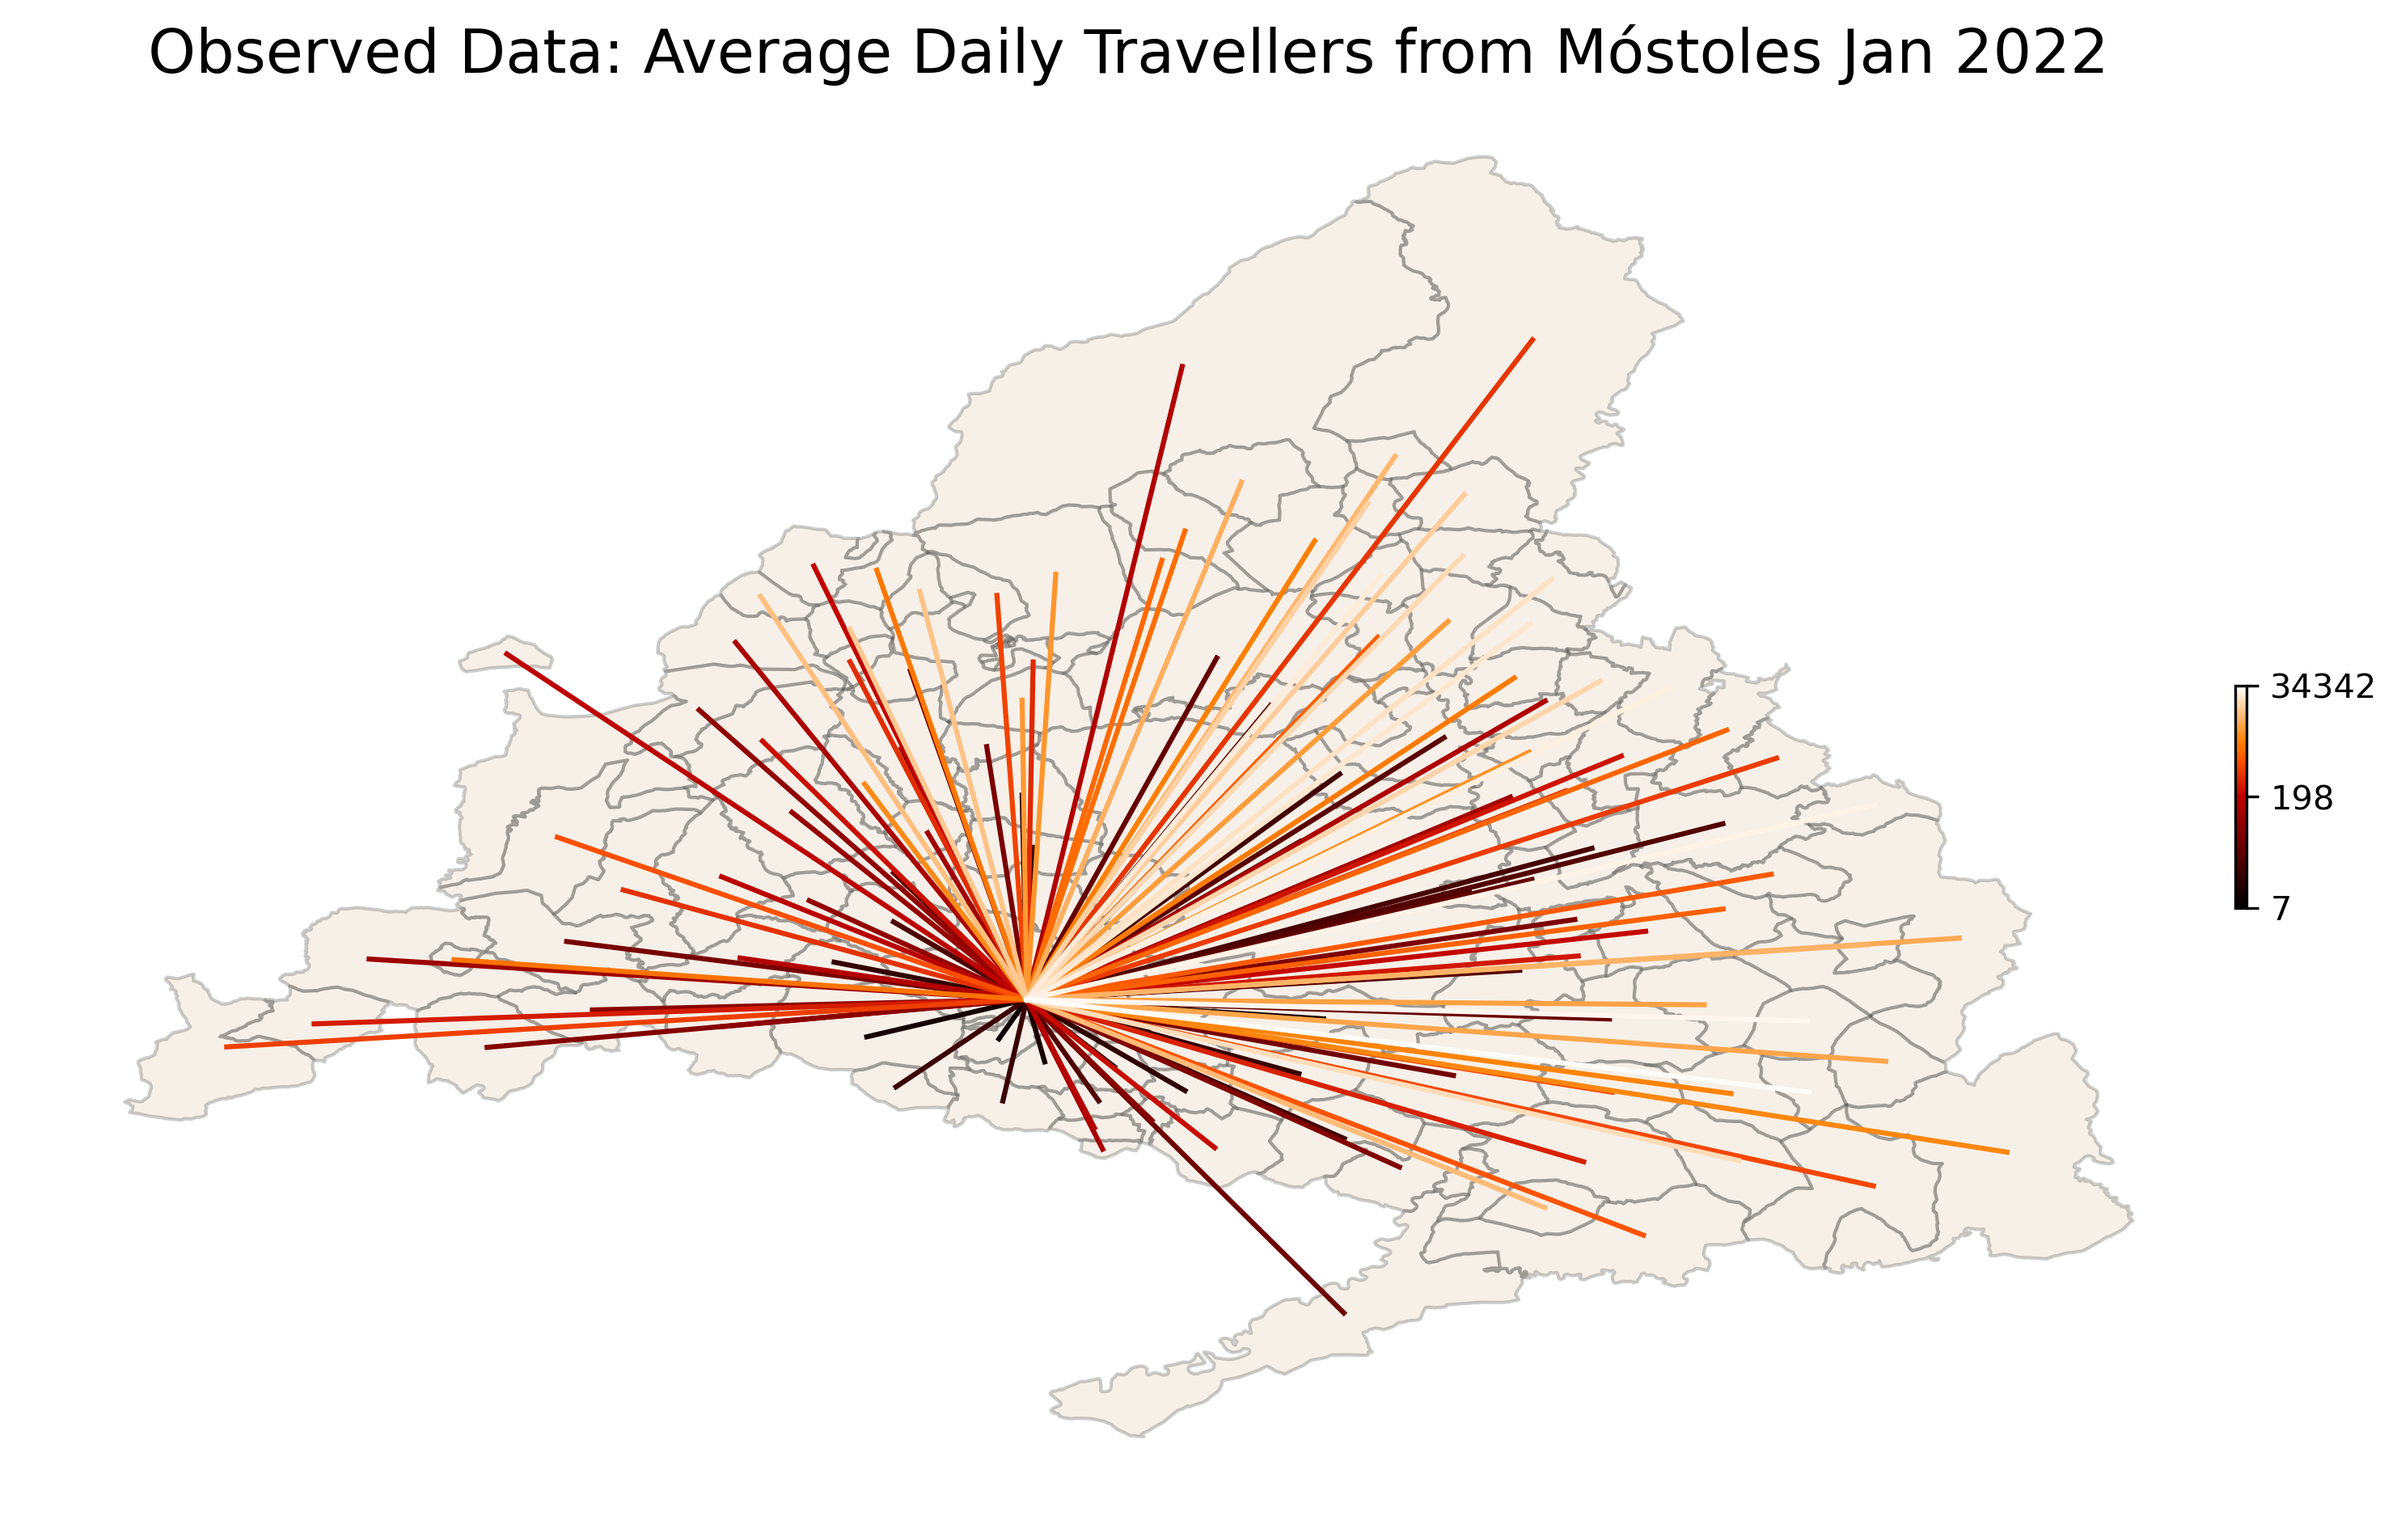
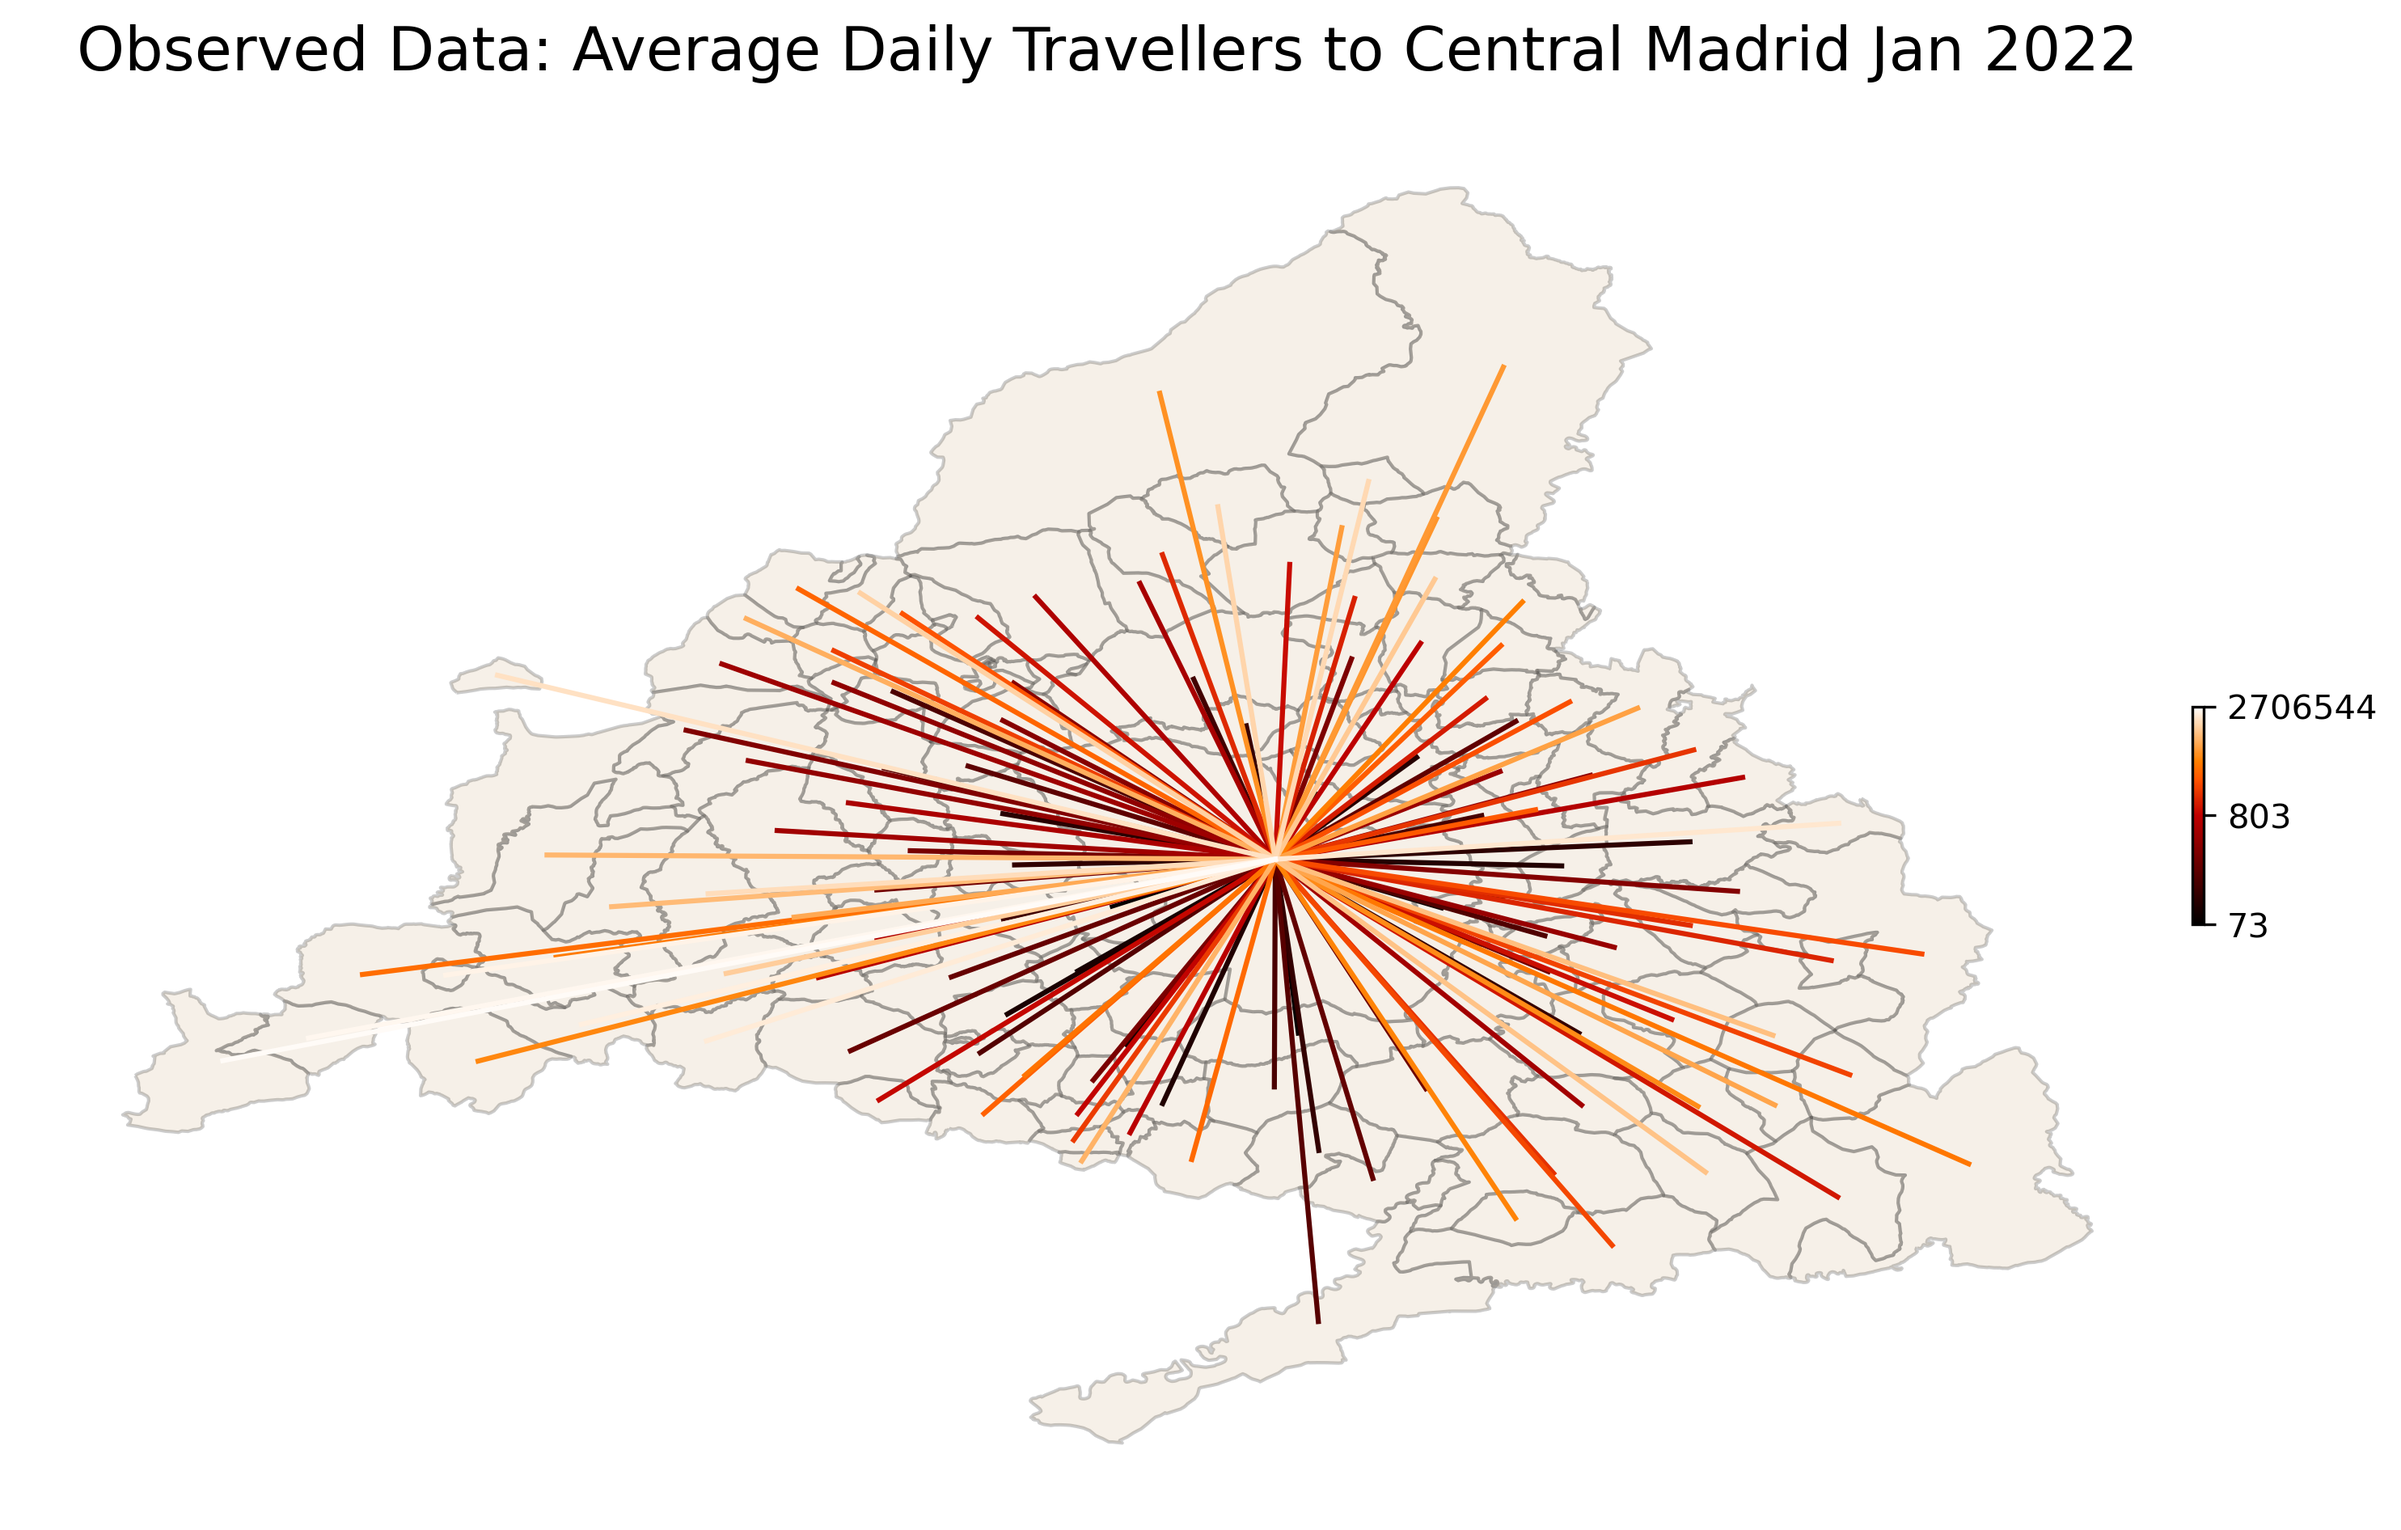
add bayesian visitation model

diff --git a/models_bayesian.py b/models_bayesian.py
@@ -1,0 +1,215 @@
+# -*- coding: utf-8 -*-
+import os
+import numpy as np
+import matplotlib.pyplot as plt
+import pandas as pd
+import geopandas as gpd
+import matplotlib as mpl
+from scipy.spatial import distance_matrix
+from tqdm import tqdm
+import pymc as pm
+import pytensor.tensor as at
+import arviz as az
+from scipy.stats import binned_statistic
+
+os.chdir(os.getcwd())
+
+#load geolocation data and subset by Madrid
+gdf = gpd.read_file("./data/zonificacion_municipios.shp")
+gdf = gdf.to_crs('+proj=cea')
+
+gdf.reset_index(inplace=True, drop=True)
+gdf['coords'] = gdf['geometry'].apply(lambda x: x.representative_point().coords[:])
+gdf['coords'] = [coords[0] for coords in gdf['coords']]
+gdf['centroid'] = gdf["geometry"].centroid.to_crs(gdf.crs)
+
+names = pd.read_csv("./data/nombres_municipios.csv", sep="|")
+madri = names[names.name=="Madrid"].ID.values[0]
+
+mad = gdf[gdf.ID.str.startswith("28")] #Madrid municipios start with 28
+
+data = pd.read_csv("data_jan_ave.csv")
+data = data[data.destino==madri] #data.groupby(["origen", "destino"], as_index=False).mean()
+data['ID'] = data.origen
+
+pob = pd.read_csv("./data/poblacion.csv", sep="|")
+pob['ID'] = pob.municipio
+pob = pob[pob.municipio.isin(data.ID.unique())]
+pob = pob.drop_duplicates('municipio') 
+
+#################### Observed Data ##############################
+### Plot Survey data observed
+#Tdf_obs = data.groupby(['origen', 'destino']).mean()
+Tdf_obs = pd.pivot_table(data, index='origen', columns='destino', values='viajes')/31
+madri_idx = Tdf_obs.columns.get_loc(madri)
+Ndf = pd.DataFrame({"ID":Tdf_obs[madri].index, madri:Tdf_obs[madri].values})
+Ndf = Ndf.replace(np.nan,0)
+madg = pd.merge(mad,Ndf)
+madg = madg.sort_values(by=madri, ascending=False)
+madg.reset_index(inplace=True, drop=True)
+
+max_val = int(max(madg[madri]))
+mid_val = int(np.median(madg[madri]))
+min_val = int(min(madg[madri]))
+
+colors = np.array([mpl.cm.get_cmap('gist_heat')(x/len(madg)) for x in range(len(madg))])
+sm = plt.cm.ScalarMappable(cmap=mpl.cm.get_cmap('gist_heat'))
+
+ch_map = mad.plot(figsize=(10,20), color="tan", alpha=0.2, edgecolor="k")
+for c in range(len(madg)):
+    #ch_map.set_facecolor("grey")
+    muni_dest = madg.ID[c]
+    orig = madri
+    dest_coord = mad[mad.ID==muni_dest].coords.values[0]
+    orig_coord = mad[mad.ID==orig].coords.values[0]
+    x = (dest_coord[0], orig_coord[0])
+    y = (dest_coord[1], orig_coord[1])
+    ch_map.plot(x,y, color=colors[c])  
+cbar = plt.colorbar(sm,fraction=0.005, pad=0.001)
+cbar.set_ticklabels([min_val,mid_val,max_val])
+plt.title("Observed Data: Average Daily Travellers to Central Madrid Jan 2022", fontsize=18)
+plt.axis('off')
+plt.tight_layout()
+plt.savefig("plot_madrid_municipio_observed.png", dpi=300, bbox_inches='tight', pad_inches=0.1)
+plt.show()
+plt.close()
+
+
+###############################################################################
+####################### Visitation Law Model ##################################
+
+#create distance matrix for radiuses R
+xy = np.array([np.array(mad.centroid.values[i].xy) for i in tqdm(range(len(mad)))]).T[0]
+D = distance_matrix(xy.T, xy.T) + 0.000000001 #distance matrix in meters
+R = D/1e3  #radiuses in km
+
+fmin = 1/31 #data.viajes/data.visitors/31 #minimum frequency
+fmax = 1 #data.viajes/data.visitors
+Nj = pob[pob.municipio==madri].poblacion.values #population destination
+Njv = data.visitors.values #visitors destination from origins
+Ai = mad.geometry.area.values/1e6 #area origin
+Aj = Ai[madri_idx] #area destination
+rj = Aj/(2*np.pi)#radius destination
+rhoj = Nj/Aj
+rij = R.T[madri_idx] #radiuses from origins to central Madrid
+rij[madri_idx] = rj 
+muj = rhoj*(rj*1)**2
+
+Vij = (muj*Ai)/(np.log(fmax/fmin)*rij**2) * 31 #compute monthly average number of trips
+
+Qij = Ai*(31**-1)*muj/(rj**2) #compute number of unique visitors
+
+Vij_vis = np.sort(Vij)[:118]
+Qij_vis = np.sort(Qij)
+
+Vij_obs = np.sort(data.viajes.values)[:118]
+Qij_obs = np.sort(data.visitors.values)
+
+SSI_v_vis = 2*np.sum(np.minimum(Vij_obs, Vij_vis))/(np.sum(Vij_obs) + np.sum(Vij_vis))
+SSI_q_vis = 2*np.sum(np.minimum(Qij_obs, Qij_vis))/(np.sum(Qij_obs) + np.sum(Qij_vis))
+
+
+fig, ax = plt.subplots(nrows=2, ncols=2, figsize=(16,8))
+
+ax[0,0].plot(Vij_obs, Vij_obs, color='k', linestyle=":", label="Observed")
+ax[0,0].scatter(Vij_obs, Vij_vis, marker="o", facecolor="w", color="g", label="Daily Trips: SSI="+str(round(SSI_v_vis, 2)))
+ax[0,0].legend()
+ax[0,0].set_title("Average Daily Trips")
+ax[0,0].set_ylabel("Estmiate")
+ax[0,0].set_xlabel("Observed")
+
+ax[0,1].plot(Vij_obs[:85], Vij_obs[:85], color='k', linestyle=":", label="Observed")
+SSI_v_vis = 2*np.sum(np.minimum(Vij_obs[:85], Vij_vis[:85]))/(np.sum(Vij_obs[:85]) + np.sum(Vij_vis[:85]))
+ax[0,1].scatter(Vij_obs[:85], Vij_vis[:85], marker="o", facecolor="w", color="g", label="Daily Trips: SSI="+str(round(SSI_v_vis, 2)))
+ax[0,1].legend()
+ax[0,1].set_title("Average Daily Trips < 50000")
+ax[0,1].set_ylabel("Estmiate")
+ax[0,1].set_xlabel("Observed")
+
+ax[1,0].plot(Qij_obs, Qij_obs, color='k', linestyle=":", label="Observed")
+ax[1,0].scatter(Qij_obs, Qij_vis, marker="o", facecolor="w", color="g", label="Daily Visitors: SSI="+str(round(SSI_q_vis, 2)))
+ax[1,0].legend()
+ax[1,0].set_title("Average Daily Visitors")
+ax[1,0].set_ylabel("Estmiate")
+ax[1,0].set_xlabel("Observed")
+
+ax[1,1].plot(Qij_obs[:87], Qij_obs[:87], color='k', linestyle=":", label="Observed")
+SSI_q_vis = 2*np.sum(np.minimum(Qij_obs[:87], Qij_vis[:87]))/(np.sum(Qij_obs[:87]) + np.sum(Qij_vis[:87]))
+ax[1,1].scatter(Qij_obs[:87], Qij_vis[:87], marker="o", facecolor="w", color="g", label="Daily Visitors: SSI="+str(round(SSI_q_vis, 2)))
+ax[1,1].legend()
+ax[1,1].set_title("Average Daily Visitors < 15000")
+ax[1,1].set_ylabel("Estmiate")
+ax[1,1].set_xlabel("Observed")
+
+plt.suptitle("Visitation Law Approximation: Trips and Travellers to Central Madrid", fontsize=18)
+plt.tight_layout()
+
+plt.savefig("visitation_law_estimates.png", dpi=300)
+plt.show()
+plt.close()
+
+#################################################
+Vij_obs = data.viajes.values
+Qij_obs = data.visitors.values
+T = 31 #length of period under study
+with pm.Model() as mod:
+    mu = pm.Uniform("mu", 1e4, 10e4, shape=119)
+    fmin = pm.Uniform("fmin", 0.1, 1, shape=119)
+    fmax = pm.Uniform("fmax", 1, 100, shape=119)
+    v = pm.Deterministic("v", (mu*Ai)/(np.log(fmax/fmin)*rij**2))
+    q = pm.Deterministic("q", Ai*(T**-1)*mu/(rj**2))
+    alpha1 = pm.HalfNormal("alpha1", 100)
+    alpha2 = pm.HalfNormal("alpha2", 10)
+    y = pm.NegativeBinomial("y", mu=v, alpha=alpha1, observed=Vij_obs)
+    w = pm.NegativeBinomial("w", mu=q, alpha=alpha2, observed=Qij_obs)
+
+with mod:
+    idata = pm.sample(1000)
+
+pos = idata.stack(sample = ['chain', 'draw']).posterior
+
+Vij = pos['v'].values.mean(axis=1)*T
+
+Vij_vis_m = np.sort(Vij)[:118]
+
+Vij_obs = np.sort(data.viajes.values)[:118]
+
+SSI_v_vis = 2*np.sum(np.minimum(Vij_obs, Vij_vis_m))/(np.sum(Vij_obs) + np.sum(Vij_vis_m))
+
+Qij_vis_m =  pos['q'].values.mean(axis=1) #compute number of unique visitors
+Qij_vis_m = np.sort(Qij_vis_m)
+Qij_obs = np.sort(data.visitors.values)
+SSI_q_vis = 2*np.sum(np.minimum(Qij_obs, Qij_vis_m))/(np.sum(Qij_obs) + np.sum(Qij_vis_m))
+
+fig, ax = plt.subplots(nrows=2, ncols=2, figsize=(16,8))
+ax[0,0].plot(Vij_obs, Vij_obs, color='k', linestyle=":", label="Observed")
+ax[0,0].scatter(Vij_obs, Vij_vis_m, marker="o", facecolor="w", color="g", label="Daily Trips: SSI="+str(round(SSI_v_vis, 2)))
+ax[0,0].legend()
+ax[0,0].set_title("Average Daily Trips")
+ax[0,0].set_ylabel("Estmiate")
+ax[0,0].set_xlabel("Observed")
+ax[0,1].plot(Vij_obs[:85], Vij_obs[:85], color='k', linestyle=":", label="Observed")
+SSI_v_vis = 2*np.sum(np.minimum(Vij_obs[:85], Vij_vis_m[:85]))/(np.sum(Vij_obs[:87]) + np.sum(Vij_vis_m[:85]))
+ax[0,1].scatter(Vij_obs[:85], Vij_vis_m[:85], marker="o", facecolor="w", color="g", label="Daily Trips: SSI="+str(round(SSI_v_vis, 2)))
+ax[0,1].legend()
+ax[0,1].set_title("Average Daily Trips < 50000")
+ax[0,1].set_ylabel("Estmiate")
+ax[0,1].set_xlabel("Observed")
+ax[1,0].plot(Qij_obs, Qij_obs, color='k', linestyle=":", label="Observed")
+ax[1,0].scatter(Qij_obs, Qij_vis_m, marker="o", facecolor="w", color="g", label="Daily Visitors: SSI="+str(round(SSI_q_vis, 2)))
+ax[1,0].legend()
+ax[1,0].set_title("Average Daily Visitors")
+ax[1,0].set_ylabel("Estmiate")
+ax[1,0].set_xlabel("Observed")
+ax[1,1].plot(Qij_obs[:87], Qij_obs[:87], color='k', linestyle=":", label="Observed")
+SSI_q_vis = 2*np.sum(np.minimum(Qij_obs[:87], Qij_vis_m[:87]))/(np.sum(Qij_obs[:87]) + np.sum(Qij_vis[:87]))
+ax[1,1].scatter(Qij_obs[:87], Qij_vis_m[:87], marker="o", facecolor="w", color="g", label="Daily Visitors: SSI="+str(round(SSI_q_vis, 2)))
+ax[1,1].legend()
+ax[1,1].set_title("Average Daily Visitors < 15000")
+ax[1,1].set_ylabel("Estmiate")
+ax[1,1].set_xlabel("Observed")
+plt.suptitle("Bayesian Visitation Model: Trips and Travellers to Central Madrid", fontsize=18)
+plt.tight_layout()
+plt.savefig("bayesian_visitation_model_estimates.png", dpi=300)
+plt.show()
+plt.close()

diff --git a/clean_data.py b/clean_data.py
@@ -25,9 +25,11 @@ mad = gdf[gdf.ID.str.contains("28")]
 mad = mad[mad.ID.str.startswith("28")]
 
 #extract data from Madrid only
+months = ['jan', 'feb', 'mar', 'apr', 'may', 'jun', 'jul', 'aug', 'sep', 'oct', 'nov', 'dec']
 tar_files = glob.glob("./data/*.tar")
 dfs = []
-for tar in tar_files:
+for t in range(len(tar_files)):
+    tar = tar_files[t]
     files = []
     tars = tarfile.open(tar)
     for member in tqdm(tars.getmembers()):
@@ -37,13 +39,15 @@ for tar in tar_files:
         f = f[f.origen.str.startswith("28")]
         f = f[f.destino.str.contains("28")]
         f = f[f.destino.str.startswith("28")]
+        f = f[f.actividad_origen=="casa"]
         files.append(f)
         df = pd.concat(files)
     df['visitors'] = np.repeat(1, len(df))
-    dfs.append(df.groupby(["origen", "destino"], as_index=False).mean())
+    df['visitors'] = np.repeat(months[t], len(df))
+    dfs.append(df.groupby(["origen", "destino", "month"], as_index=False).sum())
 
 df = pd.concat(dfs)
-df = df.groupby(["origen", "destino"], as_index=False).mean()
+df = df.groupby(["origen", "destino"], as_index=False).sum()
 df.to_csv("data_madrid_2022_ave.csv", index=False)
 
 
